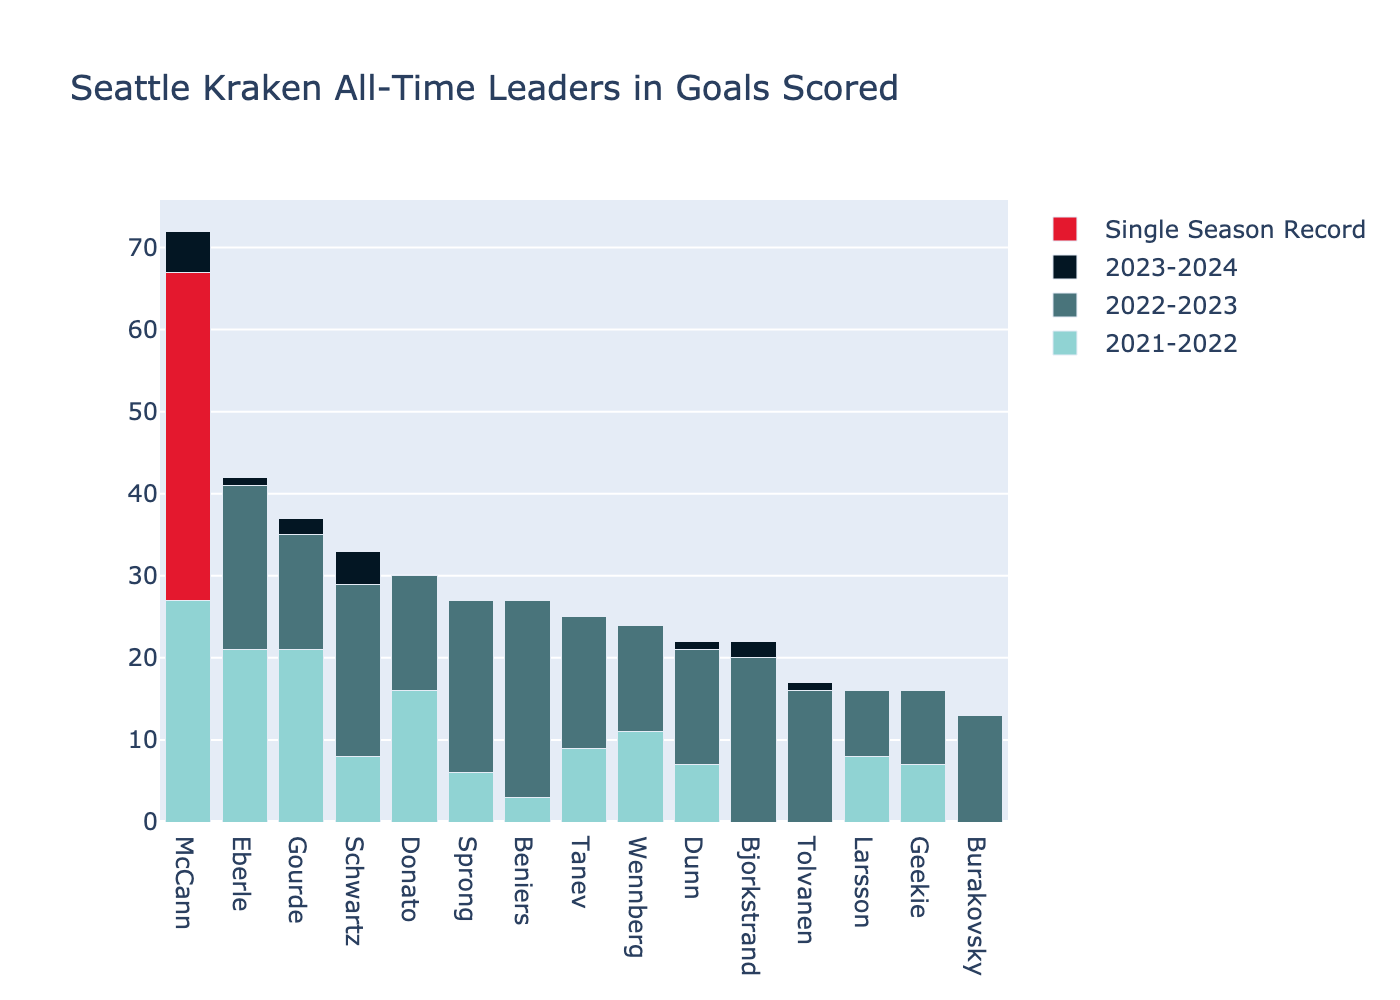
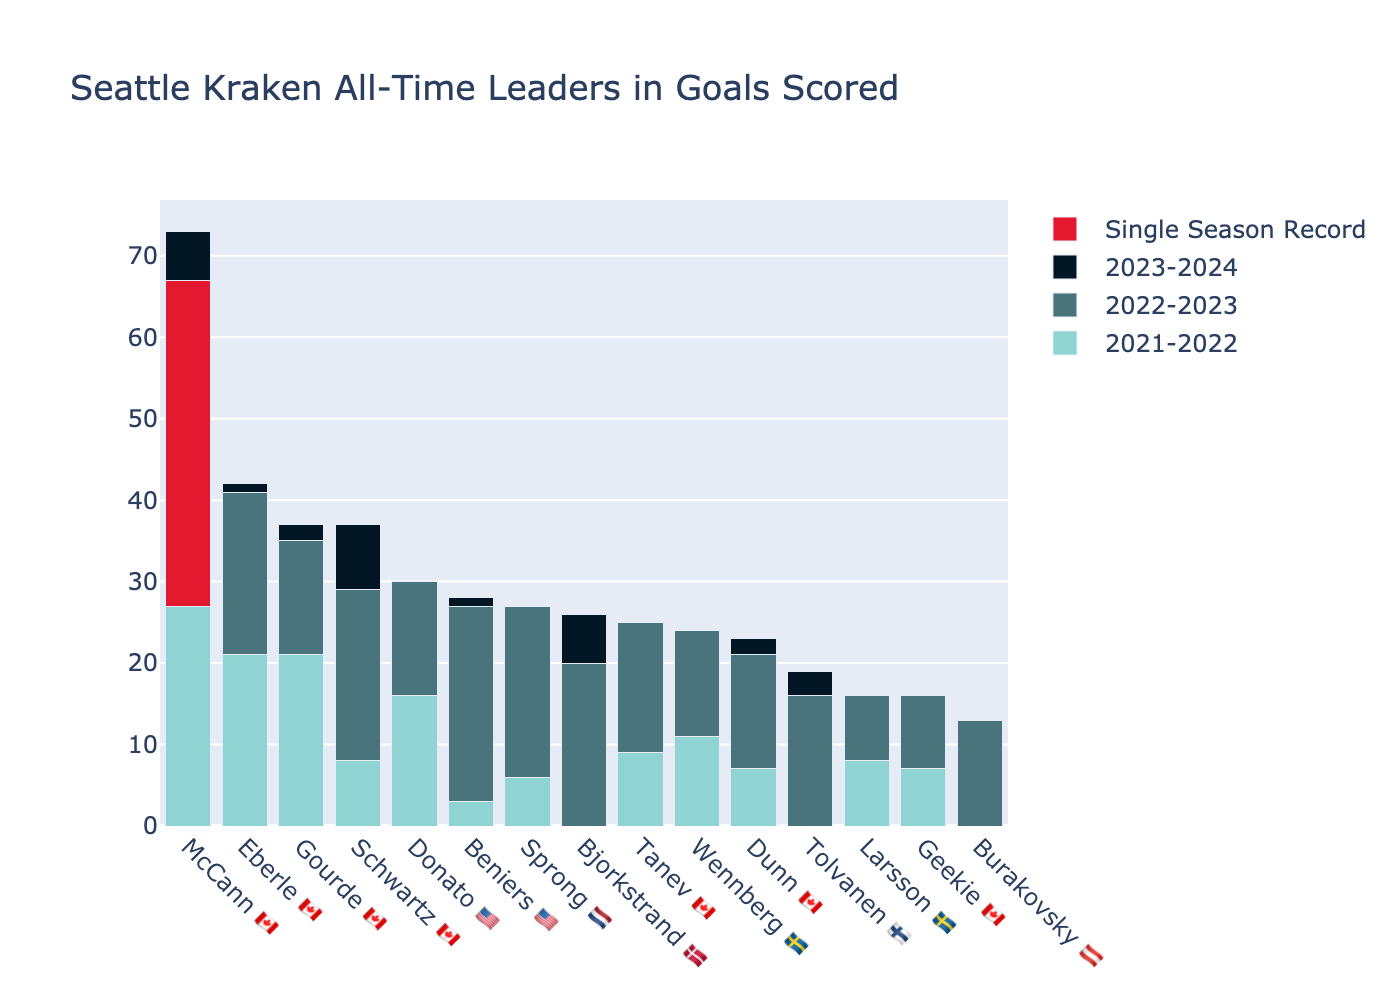
Big progress, added basic goalie plots as well as flags, although flags still have some issues.

diff --git a/main.py b/main.py
@@ -23,7 +23,8 @@ def get_color_spectrum(n, color1, color2, number_bands=15):
 # Load citizenship data
 flags = pd.read_csv("flags.csv", header=0)
 
-# Load each season data
+
+# Load each season data for skaters
 data = []
 seasons = []
 for f in sorted(glob.glob("season*.csv")):
@@ -36,6 +37,7 @@ stacked_df = pd.concat(df.assign(Season = season) for df, season in zip(data, se
 
 # Adding additional stats
 stacked_df["PPP"] = stacked_df["PPG"] + stacked_df["PPA"]
+
 
 number_seasons = len(seasons)
 # Build list of unique players
@@ -74,6 +76,47 @@ for p in list_players:
 
 stacked_df["PlayerAndFlag"] = stacked_df["Player"] + stacked_df["Flag"]
 
+# Load each season data for goalies
+data = []
+seasons = []
+for f in sorted(glob.glob("goalies*.csv")):
+    seasons.append(Path(f).stem.split('goalies-')[-1])
+    print(f"Loading {f} for goalies...")
+    #data.append(pd.read_csv(f, header=0, skiprows=1, index_col=0, usecols=lambda x: x not in ['Rk']))
+    data.append(pd.read_csv(f, header=0, skiprows=1, usecols=lambda x: x not in ['Rk']))
+    #print(data[-1]["GWG"])
+stacked_dfg = pd.concat(df.assign(Season = season) for df, season in zip(data, seasons)).reset_index(drop=True)
+
+number_seasons = len(seasons)
+# Build list of unique goalies
+list_goalies = stacked_dfg.Player.unique().tolist()
+# For each player, add an entry for their career total
+for p in list_goalies:
+    # if the player has played only 1 season, we can't use sum
+    if stacked_dfg.loc[stacked_df.Player == p].shape[0] == 1:
+        total_row = stacked_dfg.loc[stacked_df["Player"] == p]
+        total_row["Season"] = "Total"
+        total_row["Age"] = 1
+        stacked_df = pd.concat([stacked_dfg, total_row]).reset_index(drop=True)
+    else:
+        total_row = stacked_dfg.loc[stacked_dfg["Player"] == p].sum()
+        total_row.loc["Player"] = p
+        total_row.loc["Season"] = "Total"
+        total_row.loc["Age"] = stacked_dfg.loc[stacked_dfg.Player == p].shape[0]
+        try:
+            total_row.loc["Flag"] = flags.loc[flags.Player == p].iloc[0]["Flag"]
+        except IndexError:
+            print("Missing flag",p)
+            total_row.loc["Flag"] = None
+        total_row.loc["url"] = stacked_dfg.loc[stacked_dfg.Player == p].iloc[0]["url"]
+        if total_row.loc["GA"] == 0:
+            total_row.loc["SV%"] = 100.
+        else:
+            total_row.loc["SV%"] = total_row.loc["SV"] / total_row.loc["SA"] * 100
+        stacked_dfg = pd.concat([stacked_dfg, total_row.to_frame().T], sort=True).reset_index(drop=True)
+
+stacked_dfg["PlayerAndFlag"] = stacked_dfg["Player"] + stacked_dfg["Flag"]
+
 
 def get_stat(df, p, s, stat):
     """
@@ -88,7 +131,7 @@ def get_stat(df, p, s, stat):
         return df[(df.Player == p) & (df.Season == s)][stat].values[0]
     except IndexError:
         return 0
-def plotAlltimeLeaders(stat, statName, num, singleSeasonRecord, team):
+def plotAlltimeLeaders(df, stat, statName, num, singleSeasonRecord, team, goalies=False):
     """
 
     :param stat: statistic to chart
@@ -98,7 +141,7 @@ def plotAlltimeLeaders(stat, statName, num, singleSeasonRecord, team):
     """
 
 
-    top_leaders = stacked_df.loc[stacked_df.Season == "Total"].sort_values(stat, ascending=False).iloc[:num][['Player', 'Flag', stat]].reset_index(drop=True)
+    top_leaders = df.loc[df.Season == "Total"].sort_values(stat, ascending=False).iloc[:num][['Player', 'Flag', stat]].reset_index(drop=True)
 
     # Basic plot
     # fig = go.Figure()
@@ -106,14 +149,14 @@ def plotAlltimeLeaders(stat, statName, num, singleSeasonRecord, team):
     # fig.write_image("top_goalscorers.png")
 
     # for p in top_goalscorers.Player:
-    #    print(p, [s for s in stacked_df.loc[stacked_df.Player == p].Season])
+    #    print(p, [s for s in df.loc[df.Player == p].Season])
 
     # Maybe I should think about setting a different index for the subset dfs
     fig = go.Figure()
-    names = [p.split()[-1] for p in top_leaders.Player]
-
+    names = [f"{p.split()[-1]} {f}" for p,f in zip(top_leaders.Player,top_leaders.Flag)]
+    print([n for n in names if "nan" in n])
     for n, s in enumerate(seasons):
-        stats = [get_stat(stacked_df, p, s, stat) for p in top_leaders.Player]
+        stats = [get_stat(df, p, s, stat) for p in top_leaders.Player]
         #print(stats[5])
         if s != 'Total':
             #colors = [get_color_spectrum(n,light_blue,dark_blue,number_seasons) for st in stats]
@@ -139,10 +182,18 @@ def plotAlltimeLeaders(stat, statName, num, singleSeasonRecord, team):
                          showlegend=True))
 
     fig.update_layout(barmode='stack')
+    fig.update_xaxes(tickangle=45)
     fig.update_layout(title_text=f"{team} All-Time Leaders in {statName}")
     #fig.show()
-    fig.write_image(f"top_leaders_{stat}_stacked.png",scale=2)
-    fig.write_html(f"top_leaders_{stat}_stacked.html")
+    if goalies:
+        fig.write_image(f"top_goalies_leaders_{stat}_stacked.png",scale=2)
+        fig.write_html(f"top_goalies_leaders_{stat}_stacked.html")
+    else:
+        fig.write_image(f"top_leaders_{stat}_stacked.png",scale=2)
+        fig.write_html(f"top_leaders_{stat}_stacked.html")
+
+
+
 team = "Seattle Kraken"
 statName = {"GP": "Games Played",
             "G": "Goals Scored",
@@ -164,7 +215,25 @@ statName = {"GP": "Games Played",
 single_season_records = {}
 for stat in ["GP", "G", "A", "PTS", "PIM", "EVG", "PPG", "SHG", "GWG", "EVA", "PPA", "PPP", "SHA", "S", "BLK", "HIT"]:
     single_season_records[stat] = stacked_df[stacked_df.Season != 'Total'][stat].max()
-    plotAlltimeLeaders(stat, statName[stat], 15, single_season_records[stat], team)
+    plotAlltimeLeaders(stacked_df, stat, statName[stat], 15, single_season_records[stat], team)
+
+single_season_records = {}
+statName = {"GP": "Games Played",
+            "GS": "Games Started",
+            "W": "Wins",
+            "L": "Losses",
+            "GA": "Goals Against",
+            "SA": "Shots Against",
+            "SV": "Saves",
+            "SO": "Shutouts",
+            "QS": "Quality Starts",
+            "GPS": "Goalie Point Shares",
+            }
+
+for stat in statName:
+    single_season_records[stat] = stacked_dfg[stacked_dfg.Season != 'Total'][stat].max()
+    plotAlltimeLeaders(stacked_dfg, stat, statName[stat], 15, single_season_records[stat], team, goalies=True)
+
 # TODO
 ## Use better flags like https://github.com/hampusborgos/country-flags
 ## or https://github.com/google/region-flags
